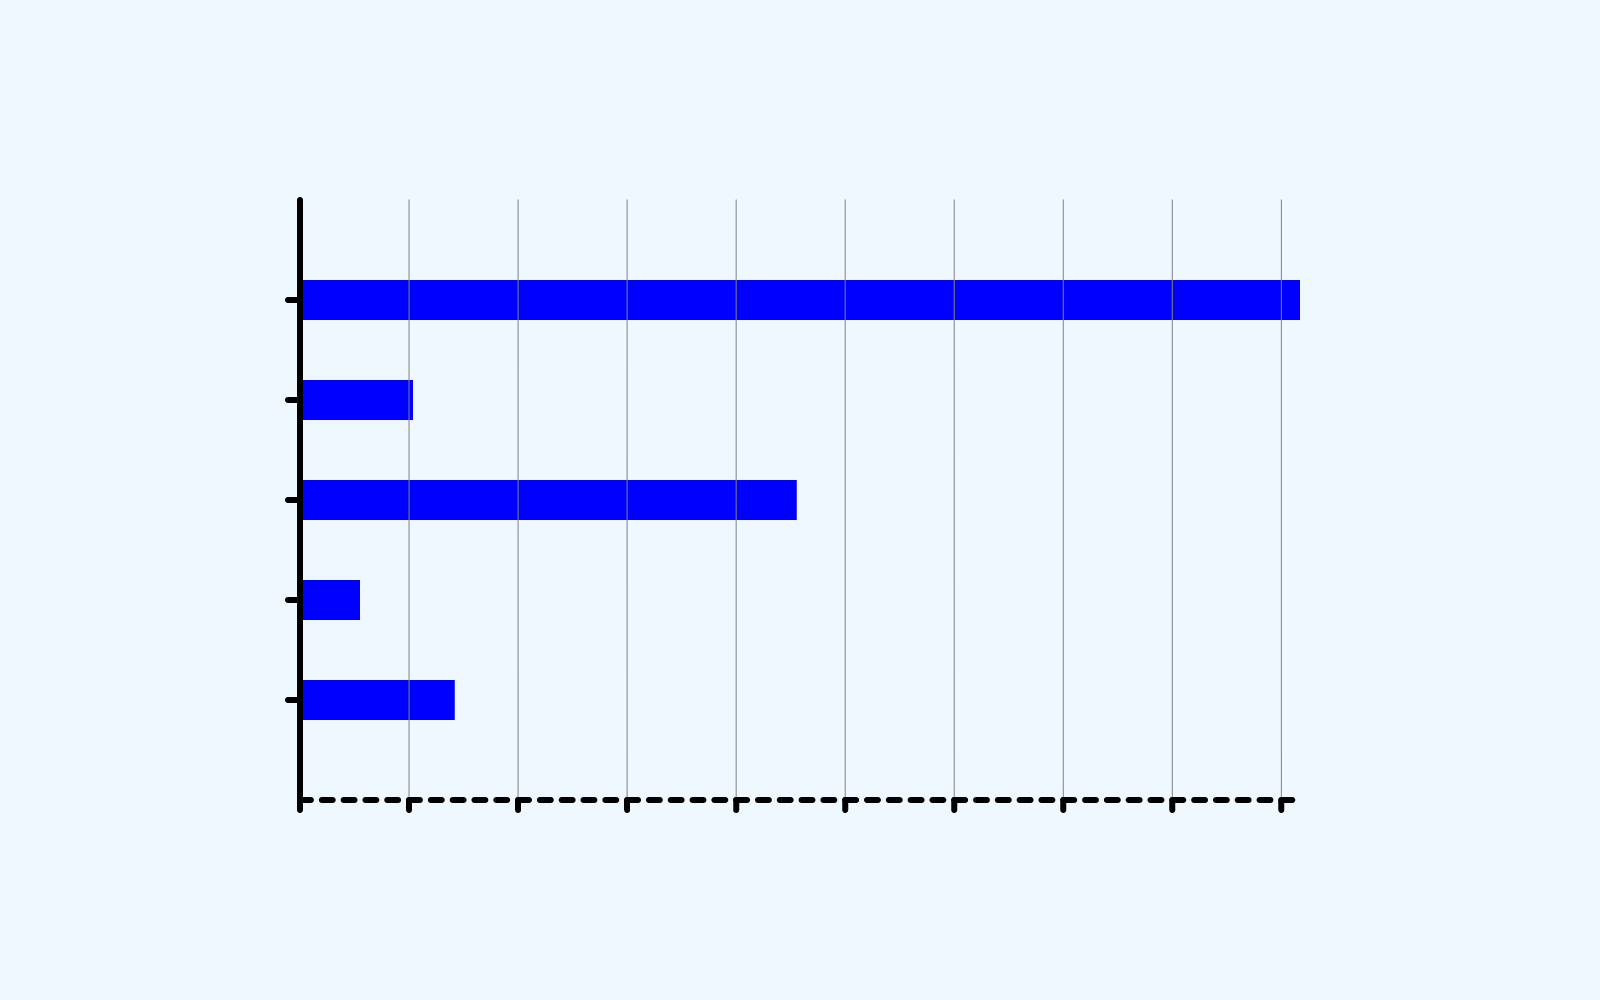
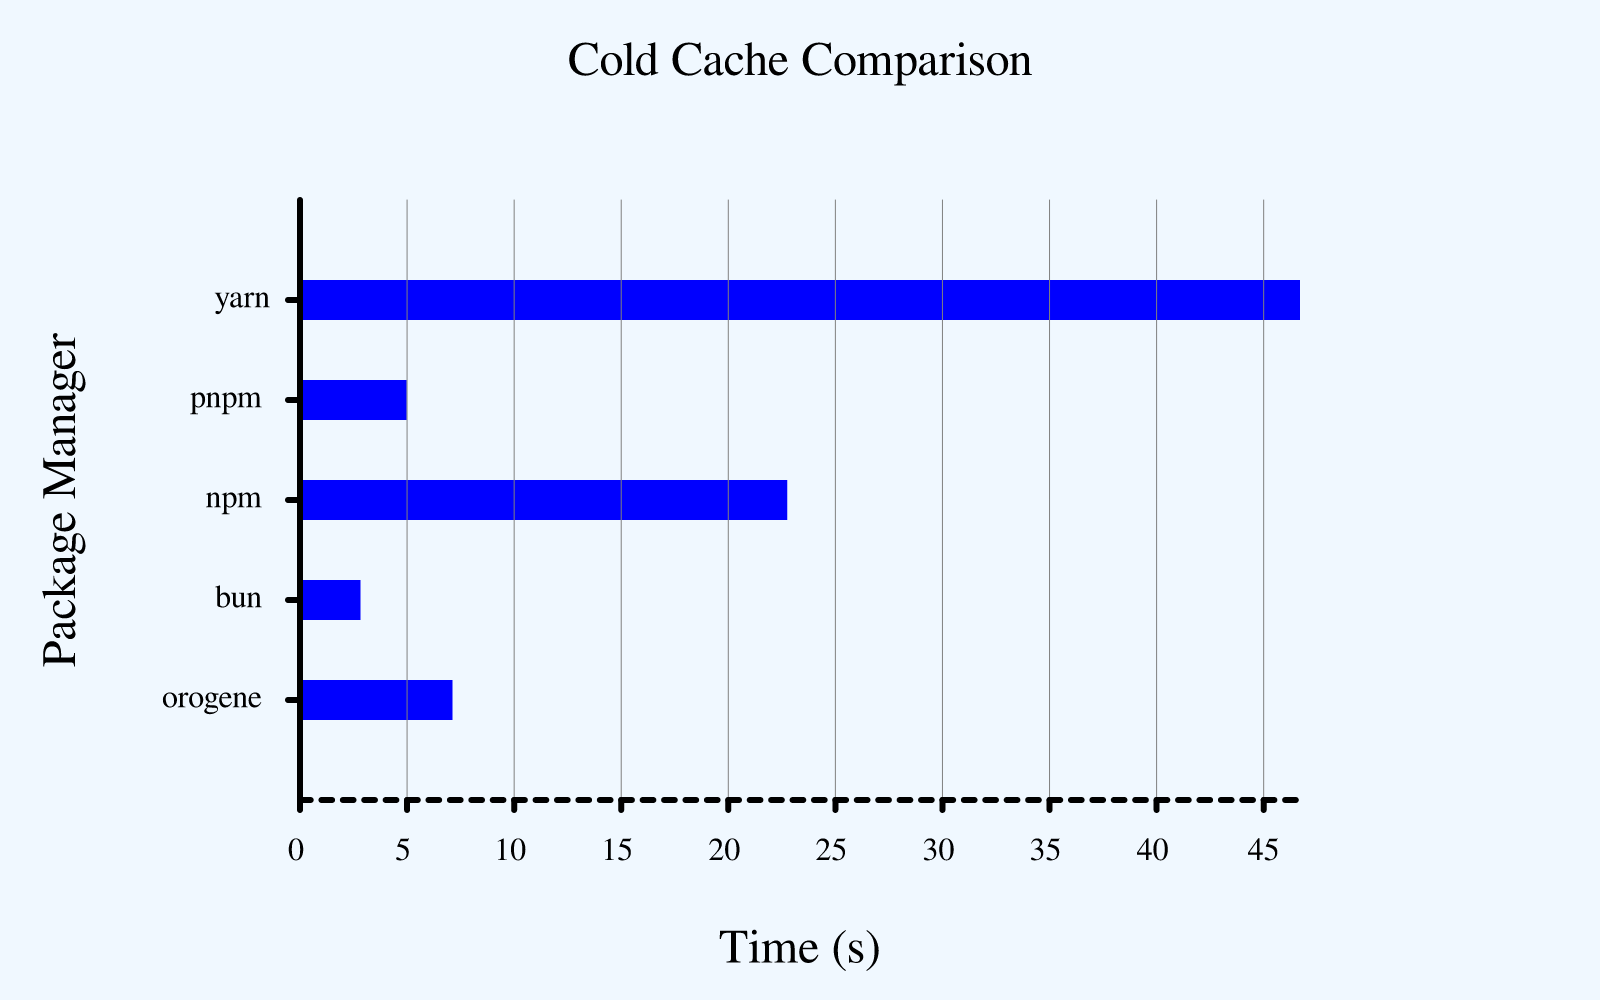
chore: update benchmarks now that fonts are fixed

diff --git a/examples/render-benchmarks.rs b/examples/render-benchmarks.rs
@@ -6,7 +6,7 @@ use std::{
 
 use backon::{BlockingRetryable, ConstantBuilder};
 use miette::{IntoDiagnostic, Result};
-use resvg::usvg_text_layout::{TreeTextToPath, fontdb};
+use resvg::usvg::{TreeParsing, TreeTextToPath, fontdb};
 use serde::Deserialize;
 
 fn main() -> Result<()> {
@@ -146,7 +146,7 @@ fn plot_benchmark(heading: &str, results: &BenchmarkResults) -> Result<String> {
 fn render_to_png(data: &str, path: &Path, fontdb: &fontdb::Database) -> Result<()> {
     let mut tree = resvg::usvg::Tree::from_str(data, &Default::default()).into_diagnostic()?;
     tree.convert_text(fontdb);
-    let fit_to = resvg::usvg::FitTo::Width(1600);
+    let fit_to = resvg::FitTo::Width(1600);
     let size = fit_to
         .fit_to(tree.size.to_screen_size())
         .ok_or_else(|| miette::miette!("failed to fit to screen size"))?;
@@ -166,11 +166,11 @@ fn render_to_png(data: &str, path: &Path, fontdb: &fontdb::Database) -> Result<(
 fn load_fonts() -> fontdb::Database {
     let mut fontdb = fontdb::Database::new();
     fontdb.load_system_fonts();
-    fontdb.set_serif_family("Times New Roman");
-    fontdb.set_sans_serif_family("Arial");
+    fontdb.set_serif_family("FreeSerif");
+    fontdb.set_sans_serif_family("Noto Sans");
     fontdb.set_cursive_family("Comic Sans MS");
     fontdb.set_fantasy_family("Impact");
-    fontdb.set_monospace_family("Courier New");
+    fontdb.set_monospace_family("Ubuntu Mono");
 
     fontdb
 }
